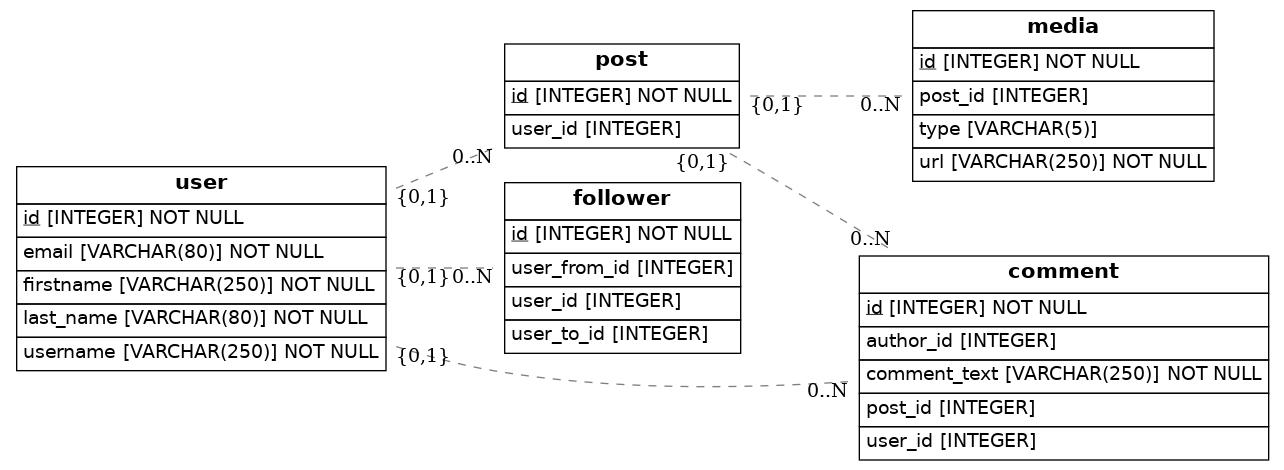
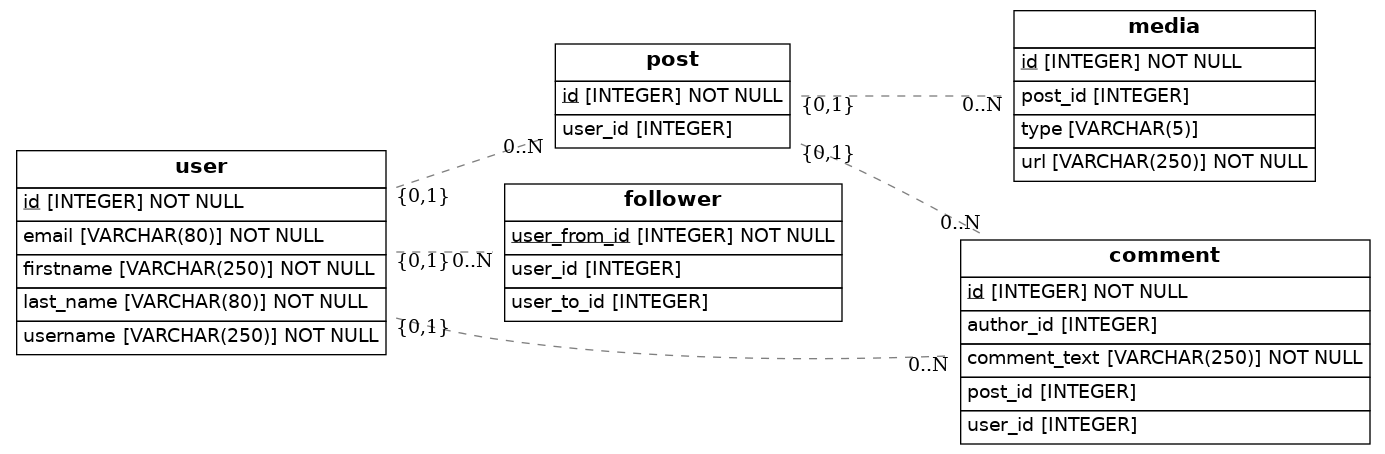
2da modificacion

Changed region(s): [[0.0, 0.0, 0.9657, 0.8018], [0.6231, 0.4626, 0.9969, 0.9868]]

diff --git a/src/models.py b/src/models.py
@@ -32,13 +32,29 @@ class Post(Base):
 class Follower(Base):
     __tablename__ = 'follower'
     
-    id = Column(Integer, primary_key= True )
-    user_from_id = Column(Integer)
+   
+    user_from_id = Column(Integer, primary_key= True )
     user_to_id = Column(Integer)
+
+    user_id = Column(Integer , ForeignKey('user.id'))
+    User = relationship("User")
+
+class Comment(Base):
+    __tablename__ = 'comment'
+    id = Column(Integer, primary_key = True)
+    comment_text = Column(String(250),nullable = False)
+    author_id = Column(Integer)
+    post_id = Column(Integer)
+
 
     user_id = Column(Integer , ForeignKey('user.id'))
     User = relationship(User)
     
+    post_id = Column(Integer, ForeignKey('post.id'))
+    post = relationship(Post)
+
+    def to_dict(self):
+        return {}
 
 class Media(Base):
     __tablename__ = 'media'
@@ -50,20 +66,7 @@ class Media(Base):
     post_id = Column(Integer, ForeignKey('post.id'))
     post = relationship (Post)
 
-class Comment(Base):
-    __tablename__ = 'comment'
-    id = Column(Integer, primary_key = True)
-    comment_text = Column(String(250),nullable = False)
-    author_id = Column(Integer)
-    post_id = Column(Integer)
 
-    user_id = Column(Integer , ForeignKey('user.id'))
-    User = relationship(User)
-    post_id = Column(Integer, ForeignKey('post.id'))
-    post = relationship(Post)
-
-    def to_dict(self):
-        return {}
 
 ## Draw from SQLAlchemy base
 try:
